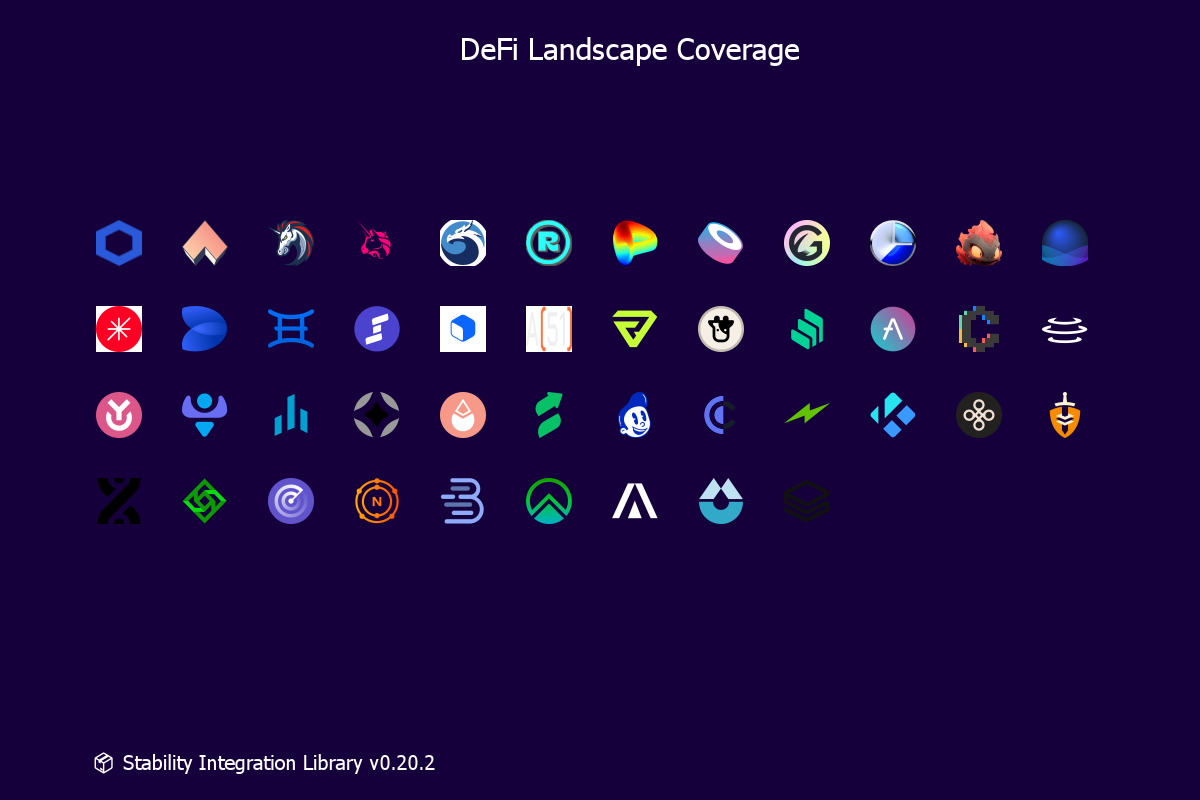
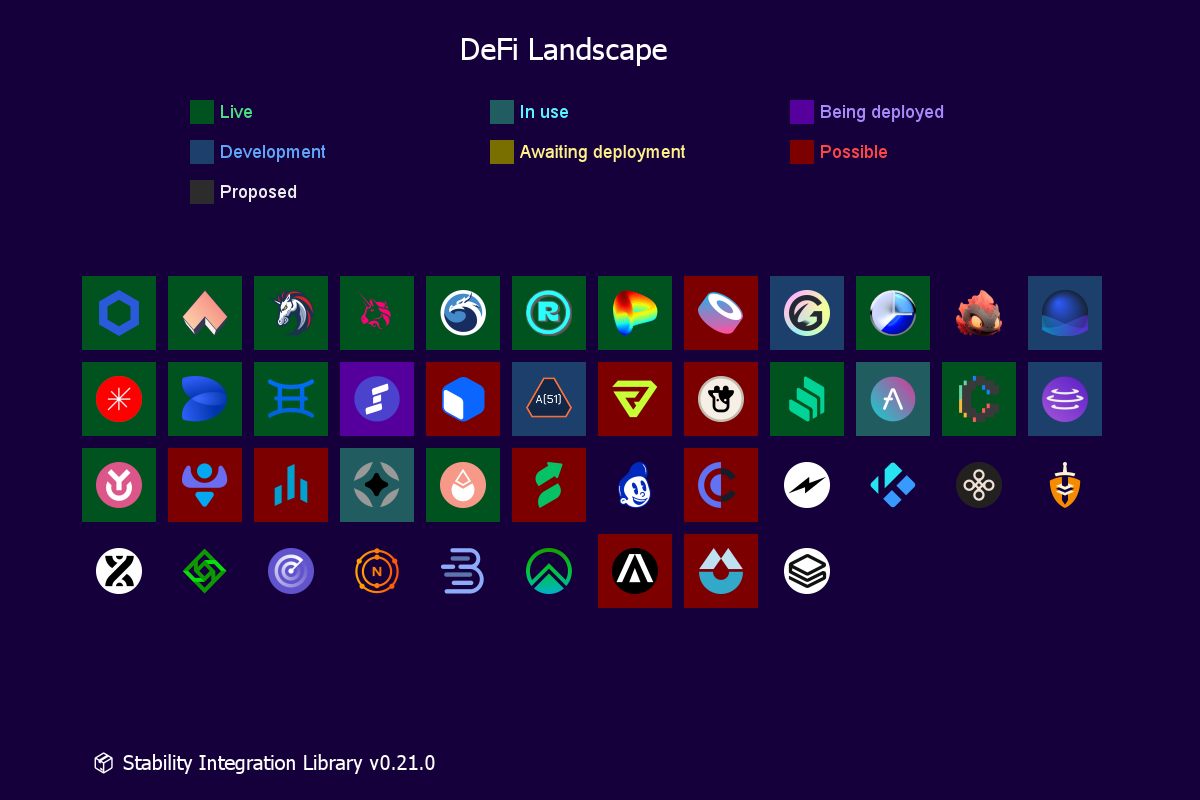
add command -> Canvas for DeFi Landscape | add ProtocolStatusInfo | bump version

diff --git a/tools/draw-organizations.ts b/tools/draw-organizations.ts
@@ -3,6 +3,11 @@ import * as fs from "node:fs";
 import axios from "axios";
 import { integrations } from "../src";
 import { version } from "../package.json";
+import {
+  protocolStatusInfo,
+  getIntegrationStatus,
+  IntegrationStatus,
+} from "../src/integrations";
 
 async function main() {
   console.log("== Draw organizations ==");
@@ -30,7 +35,9 @@ async function main() {
   const xPadding = 76;
 
   // download organization images
-  console.log(`Download ${Object.keys(integrations).length} organization images..`);
+  console.log(
+    `Download ${Object.keys(integrations).length} organization images..`,
+  );
   for (const orgId in integrations) {
     const organization = integrations[orgId];
     const p = `${tmpDir}/${organization.img}`;
@@ -43,7 +50,6 @@ async function main() {
 
     process.stdout.write(".");
   }
-  console.log();
 
   // Instantiate the canvas object
   let canvas = createCanvas(width, height);
@@ -57,23 +63,97 @@ async function main() {
   // title
   ctx.font = '30px "Sans"';
   ctx.fillStyle = "#ffffff";
-  ctx.fillText("DeFi Landscape Coverage", 460, 60);
+  ctx.fillText("DeFi Landscape", 460, 60);
 
   // library
   ctx.font = '20px "Sans"';
   ctx.fillStyle = "#ffffff";
   ctx.fillText(`📦 Stability Integration Library v${version}`, 90, 770);
 
+  // statuses
+  let i = 0;
+  let k = 100;
+  const paddingLeft = 190;
+  const statusBlockWidth = 300;
+  for (const protocolStatus of Object.keys(protocolStatusInfo)) {
+    ctx.fillStyle =
+      protocolStatusInfo[protocolStatus as IntegrationStatus].bgColor;
+    ctx.fillRect(paddingLeft + i * statusBlockWidth, k, 24, 24);
+    ctx.font = '18px "Arial"';
+    ctx.fillStyle =
+      protocolStatusInfo[protocolStatus as IntegrationStatus].color;
+    ctx.fillText(
+      protocolStatusInfo[protocolStatus as IntegrationStatus].title,
+      paddingLeft + i * statusBlockWidth + 30,
+      k + 18,
+    );
+
+    i++;
+    if (i > 2) {
+      i = 0;
+      k += 40;
+    }
+  }
+
   // put organization imgs
   let x = xPadding;
-  let y = 200;
+  let y = 270;
   const w = organizationBlockSize - 2 * organizationBlockPadding;
+  const organizationBlockStatusPadding = 6;
+
   for (const orgId in integrations) {
-    const organization = integrations[orgId];
+    const org = integrations[orgId];
+    const protocolsStatus = [];
+    let status;
+    for (const protocolId in org.protocols) {
+      const protocol = org.protocols[protocolId];
+      const protocolStatus = getIntegrationStatus(protocol);
+      protocolsStatus.push(protocolStatus);
+    }
+
+    const integrationStatusValues = [
+      IntegrationStatus.LIVE,
+      IntegrationStatus.IN_USE,
+      IntegrationStatus.BEING_DEPLOYED,
+      IntegrationStatus.DEVELOPMENT,
+      IntegrationStatus.AWAITING,
+      IntegrationStatus.POSSIBLE,
+      IntegrationStatus.PROPOSED,
+    ];
+
+    for (const _status of integrationStatusValues) {
+      if (protocolsStatus.includes(_status)) {
+        status = _status;
+        break;
+      }
+    }
+
     try {
+      // status
+      if (status) {
+        ctx.fillStyle = protocolStatusInfo[status].bgColor;
+        if (status == IntegrationStatus.PROPOSED) {
+          ctx.fillStyle = bgColor;
+        }
+      } else {
+        console.warn(`Couldn't find a valid status for organization: ${orgId}`);
+      }
+      ctx.fillRect(
+        x + organizationBlockStatusPadding,
+        y + organizationBlockStatusPadding,
+        organizationBlockSize - organizationBlockStatusPadding * 2,
+        organizationBlockSize - organizationBlockStatusPadding * 2,
+      );
+
       // image
-      const image = await loadImage(`${tmpDir}/${organization.img}`);
-      ctx.drawImage(image, x + organizationBlockPadding, y + organizationBlockPadding, w, w);
+      const image = await loadImage(`${tmpDir}/${org.img}`);
+      ctx.drawImage(
+        image,
+        x + organizationBlockPadding,
+        y + organizationBlockPadding,
+        w,
+        w,
+      );
 
       x += organizationBlockSize;
 
@@ -90,7 +170,9 @@ async function main() {
   // Write the image to file
   const buffer = canvas.toBuffer("image/png");
   fs.writeFileSync(filename, buffer);
-  console.log(`Image of organizations collection generated and saved to ${filename}`);
+  console.log(
+    `Image of organizations collection generated and saved to ${filename}`,
+  );
 
   // draw covers
   for (const orgId in integrations) {

diff --git a/src/integrations.ts b/src/integrations.ts
@@ -23,14 +23,69 @@ export type DeFiProtocol = {
 };
 
 export const enum IntegrationStatus {
-  LIVE = "Live",
-  IN_USE = "In use",
-  BEING_DEPLOYED = "Being deployed",
-  DEVELOPMENT = "Development",
-  AWAITING = "Awaiting", // awaiting development
-  POSSIBLE = "Possible",
-  PROPOSED = "Proposed",
+  LIVE = "LIVE",
+  IN_USE = "IN_USE",
+  BEING_DEPLOYED = "BEING_DEPLOYED",
+  DEVELOPMENT = "DEVELOPMENT",
+  AWAITING = "AWAITING", // awaiting development
+  POSSIBLE = "POSSIBLE",
+  PROPOSED = "PROPOSED",
 }
+
+export type ProtocolStatusInfo = {
+  title: string;
+  description: string;
+  color: string;
+  bgColor: string;
+};
+
+export const protocolStatusInfo: {
+  [status in IntegrationStatus]: ProtocolStatusInfo;
+} = {
+  [IntegrationStatus.LIVE]: {
+    title: "Live",
+    description: "Organization is live",
+    color: "#4ade80", // green-400
+    bgColor: "#00521f",
+  },
+  [IntegrationStatus.IN_USE]: {
+    title: "In use",
+    description: "Organization is in use",
+    color: "#59f5ff",
+    bgColor: "#215d60",
+  },
+  [IntegrationStatus.BEING_DEPLOYED]: {
+    title: "Being deployed",
+    description: "Organization is being deployed",
+    color: "#a78bfa", // violet-400
+    bgColor: "#55009d",
+  },
+  [IntegrationStatus.DEVELOPMENT]: {
+    title: "Development",
+    description: "Organization is under development",
+    color: "#60a5fa", // blue-400
+    bgColor: "#1d3f6c",
+  },
+  [IntegrationStatus.AWAITING]: {
+    title: "Awaiting deployment",
+    description:
+      "We awaiting developer to be assigned to solve organization library issue",
+    color: "#fef08a", // yellow-200
+    bgColor: "#796e00",
+  },
+  [IntegrationStatus.POSSIBLE]: {
+    title: "Possible",
+    description: "We are analyzing to possibly implement the organization",
+    color: "#ff4646",
+    bgColor: "#7c0000",
+  },
+  [IntegrationStatus.PROPOSED]: {
+    title: "Proposed",
+    description: "The organization has been proposed for implementation",
+    color: "#eeeeee",
+    bgColor: "#2c2c2c",
+  },
+};
 
 export enum DefiCategory {
   AMM = "AMM",
